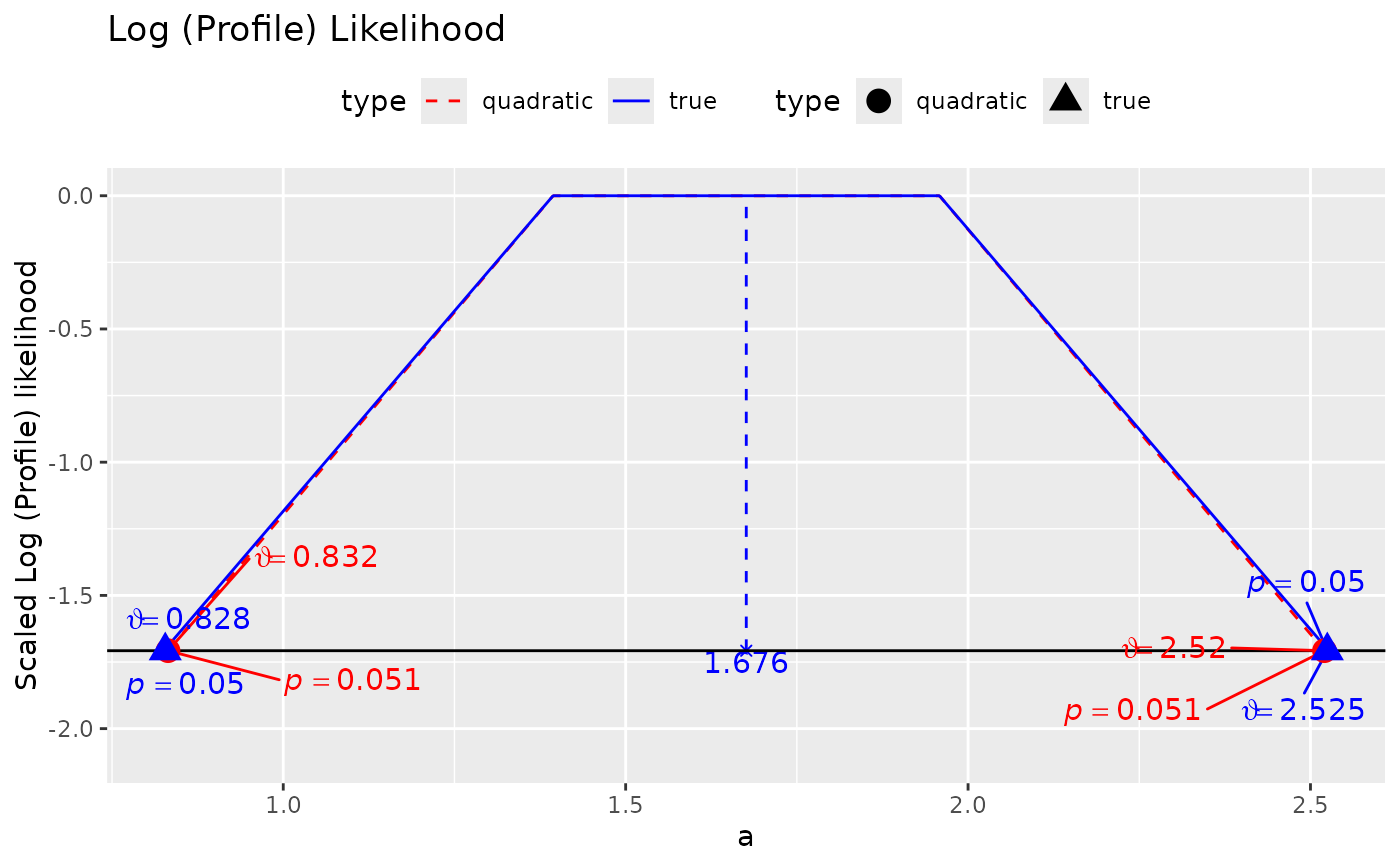
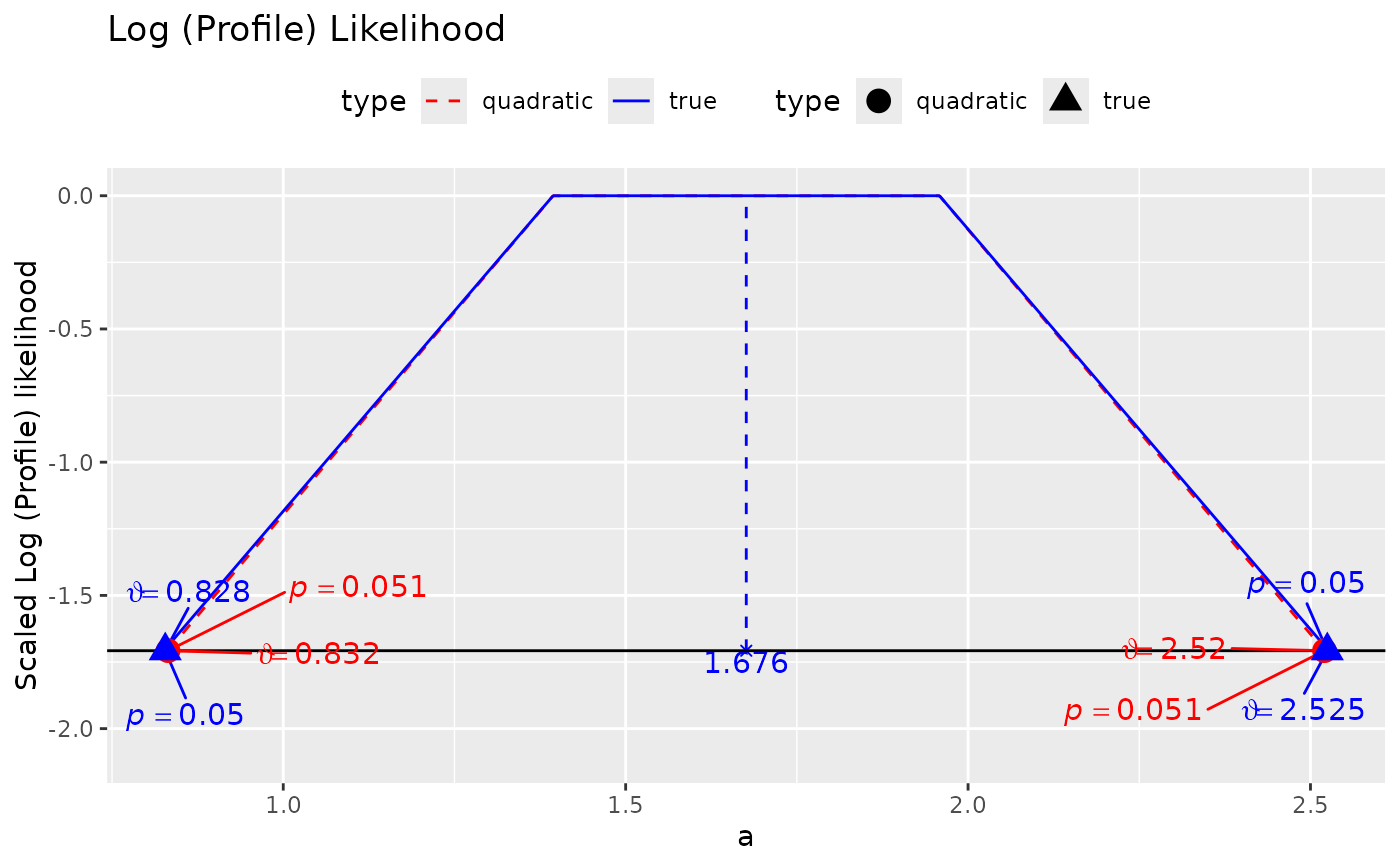
Deploying to gh-pages from @ sfcheung/semlbci@7bef6d9f5c7158b0d054cf3b41ddc15a6c19da22 🚀

diff --git a/news/index.html b/news/index.html
@@ -7,7 +7,7 @@
 
     <a class="navbar-brand me-2" href="../index.html">semlbci</a>
 
-    <small class="nav-text text-muted me-auto" data-bs-toggle="tooltip" data-bs-placement="bottom" title="">0.11.4</small>
+    <small class="nav-text text-muted me-auto" data-bs-toggle="tooltip" data-bs-placement="bottom" title="">0.11.5</small>
 
 
     <button class="navbar-toggler" type="button" data-bs-toggle="collapse" data-bs-target="#navbar" aria-controls="navbar" aria-expanded="false" aria-label="Toggle navigation">
@@ -39,10 +39,12 @@
     </div>
 
     <div class="section level2">
-<h2 class="pkg-version" data-toc-text="0.11.4" id="semlbci-0114">semlbci 0.11.4<a class="anchor" aria-label="anchor" href="#semlbci-0114"></a></h2>
+<h2 class="pkg-version" data-toc-text="0.11.5" id="semlbci-0115">semlbci 0.11.5<a class="anchor" aria-label="anchor" href="#semlbci-0115"></a></h2>
 <div class="section level3">
-<h3 id="miscellaneous-0-11-4">Miscellaneous<a class="anchor" aria-label="anchor" href="#miscellaneous-0-11-4"></a></h3>
-<ul><li>Fixed minor numerical differences in tests in the forthcoming version of <code>lavaan</code>. (0.11.4)</li>
+<h3 id="miscellaneous-0-11-5">Miscellaneous<a class="anchor" aria-label="anchor" href="#miscellaneous-0-11-5"></a></h3>
+<ul><li><p>Fixed minor numerical differences in tests in the forthcoming version of <code>lavaan</code>. (0.11.4)</p></li>
+<li><p>Relaxed the tolerance to allow for cross-platforms minor differences in optimization. (0.11.4.1)</p></li>
+<li><p>Added <code><a href="https://rdrr.io/r/base/on.exit.html" class="external-link">on.exit()</a></code> to functions that may create a cluster of R sessions. (0.11.4.2)</p></li>
 </ul></div>
 </div>
     <div class="section level2">

diff --git a/articles/technical_workflow.html b/articles/technical_workflow.html
@@ -28,7 +28,7 @@
 
     <a class="navbar-brand me-2" href="../index.html">semlbci</a>
 
-    <small class="nav-text text-muted me-auto" data-bs-toggle="tooltip" data-bs-placement="bottom" title="">0.11.4</small>
+    <small class="nav-text text-muted me-auto" data-bs-toggle="tooltip" data-bs-placement="bottom" title="">0.11.5</small>
 
 
     <button class="navbar-toggler" type="button" data-bs-toggle="collapse" data-bs-target="#navbar" aria-controls="navbar" aria-expanded="false" aria-label="Toggle navigation">
@@ -71,7 +71,7 @@
                         <h4 data-toc-skip class="author">Shu Fai
 Cheung</h4>
             
-            <h4 data-toc-skip class="date">2025-12-04</h4>
+            <h4 data-toc-skip class="date">2025-12-05</h4>
       
       <small class="dont-index">Source: <a href="https://github.com/sfcheung/semlbci/blob/master/vignettes/articles/technical_workflow.Rmd" class="external-link"><code>vignettes/articles/technical_workflow.Rmd</code></a></small>
       <div class="d-none name"><code>technical_workflow.Rmd</code></div>

diff --git a/index.html b/index.html
@@ -31,7 +31,7 @@
 
     <a class="navbar-brand me-2" href="index.html">semlbci</a>
 
-    <small class="nav-text text-muted me-auto" data-bs-toggle="tooltip" data-bs-placement="bottom" title="">0.11.4</small>
+    <small class="nav-text text-muted me-auto" data-bs-toggle="tooltip" data-bs-placement="bottom" title="">0.11.5</small>
 
 
     <button class="navbar-toggler" type="button" data-bs-toggle="collapse" data-bs-target="#navbar" aria-controls="navbar" aria-expanded="false" aria-label="Toggle navigation">
@@ -65,7 +65,7 @@
 </nav><div class="container template-home">
 <div class="row">
   <main id="main" class="col-md-9">
-<p>(Version 0.11.4, updated on 2025-12-04 <a href="https://sfcheung.github.io/semlbci/news/index.html">release history</a>)</p>
+<p>(Version 0.11.5, updated on 2025-12-05 <a href="https://sfcheung.github.io/semlbci/news/index.html">release history</a>)</p>
 <div class="section level1">
 <div class="page-header">
 <img src="logo.png" class="logo" alt=""><h1 id="semlbci-">semlbci <a class="anchor" aria-label="anchor" href="#semlbci-"></a>

diff --git a/reference/print.semlbci.html b/reference/print.semlbci.html
@@ -9,7 +9,7 @@ of semlbci()."><meta property="og:image" content="https://sfcheung.github.io/sem
 
     <a class="navbar-brand me-2" href="../index.html">semlbci</a>
 
-    <small class="nav-text text-muted me-auto" data-bs-toggle="tooltip" data-bs-placement="bottom" title="">0.11.4</small>
+    <small class="nav-text text-muted me-auto" data-bs-toggle="tooltip" data-bs-placement="bottom" title="">0.11.5</small>
 
 
     <button class="navbar-toggler" type="button" data-bs-toggle="collapse" data-bs-target="#navbar" aria-controls="navbar" aria-expanded="false" aria-label="Toggle navigation">
@@ -336,7 +336,7 @@ if <code>output</code> is <code>"text"</code> or
 <span class="r-out co"><span class="r-pr">#&gt;</span> </span>
 <span class="r-out co"><span class="r-pr">#&gt;</span> Results:</span>
 <span class="r-out co"><span class="r-pr">#&gt;</span>   id lhs op rhs label   est lbci_lb lbci_ub    lb    ub sec_l sec_u cl_lb cl_ub</span>
-<span class="r-out co"><span class="r-pr">#&gt;</span> 6  6  ab := a*b    ab 0.897   0.427   1.464 0.385 1.409 0.186 0.163 0.950 0.950</span>
+<span class="r-out co"><span class="r-pr">#&gt;</span> 6  6  ab := a*b    ab 0.897   0.427   1.464 0.385 1.409 0.185 0.162 0.950 0.950</span>
 <span class="r-out co"><span class="r-pr">#&gt;</span> </span>
 <span class="r-out co"><span class="r-pr">#&gt;</span> Annotation:</span>
 <span class="r-out co"><span class="r-pr">#&gt;</span> * lbci_lb, lbci_ub: The lower and upper likelihood-based bounds.</span>

diff --git a/404.html b/404.html
@@ -29,7 +29,7 @@
 
     <a class="navbar-brand me-2" href="https://sfcheung.github.io/semlbci/index.html">semlbci</a>
 
-    <small class="nav-text text-muted me-auto" data-bs-toggle="tooltip" data-bs-placement="bottom" title="">0.11.4</small>
+    <small class="nav-text text-muted me-auto" data-bs-toggle="tooltip" data-bs-placement="bottom" title="">0.11.5</small>
 
 
     <button class="navbar-toggler" type="button" data-bs-toggle="collapse" data-bs-target="#navbar" aria-controls="navbar" aria-expanded="false" aria-label="Toggle navigation">

diff --git a/articles/index.html b/articles/index.html
@@ -7,7 +7,7 @@
 
     <a class="navbar-brand me-2" href="../index.html">semlbci</a>
 
-    <small class="nav-text text-muted me-auto" data-bs-toggle="tooltip" data-bs-placement="bottom" title="">0.11.4</small>
+    <small class="nav-text text-muted me-auto" data-bs-toggle="tooltip" data-bs-placement="bottom" title="">0.11.5</small>
 
 
     <button class="navbar-toggler" type="button" data-bs-toggle="collapse" data-bs-target="#navbar" aria-controls="navbar" aria-expanded="false" aria-label="Toggle navigation">

diff --git a/articles/loglike.html b/articles/loglike.html
@@ -28,7 +28,7 @@
 
     <a class="navbar-brand me-2" href="../index.html">semlbci</a>
 
-    <small class="nav-text text-muted me-auto" data-bs-toggle="tooltip" data-bs-placement="bottom" title="">0.11.4</small>
+    <small class="nav-text text-muted me-auto" data-bs-toggle="tooltip" data-bs-placement="bottom" title="">0.11.5</small>
 
 
     <button class="navbar-toggler" type="button" data-bs-toggle="collapse" data-bs-target="#navbar" aria-controls="navbar" aria-expanded="false" aria-label="Toggle navigation">

diff --git a/articles/semlbci.html b/articles/semlbci.html
@@ -28,7 +28,7 @@
 
     <a class="navbar-brand me-2" href="../index.html">semlbci</a>
 
-    <small class="nav-text text-muted me-auto" data-bs-toggle="tooltip" data-bs-placement="bottom" title="">0.11.4</small>
+    <small class="nav-text text-muted me-auto" data-bs-toggle="tooltip" data-bs-placement="bottom" title="">0.11.5</small>
 
 
     <button class="navbar-toggler" type="button" data-bs-toggle="collapse" data-bs-target="#navbar" aria-controls="navbar" aria-expanded="false" aria-label="Toggle navigation">

diff --git a/articles/technical_searching_one_bound.html b/articles/technical_searching_one_bound.html
@@ -28,7 +28,7 @@
 
     <a class="navbar-brand me-2" href="../index.html">semlbci</a>
 
-    <small class="nav-text text-muted me-auto" data-bs-toggle="tooltip" data-bs-placement="bottom" title="">0.11.4</small>
+    <small class="nav-text text-muted me-auto" data-bs-toggle="tooltip" data-bs-placement="bottom" title="">0.11.5</small>
 
 
     <button class="navbar-toggler" type="button" data-bs-toggle="collapse" data-bs-target="#navbar" aria-controls="navbar" aria-expanded="false" aria-label="Toggle navigation">

diff --git a/authors.html b/authors.html
@@ -7,7 +7,7 @@
 
     <a class="navbar-brand me-2" href="index.html">semlbci</a>
 
-    <small class="nav-text text-muted me-auto" data-bs-toggle="tooltip" data-bs-placement="bottom" title="">0.11.4</small>
+    <small class="nav-text text-muted me-auto" data-bs-toggle="tooltip" data-bs-placement="bottom" title="">0.11.5</small>
 
 
     <button class="navbar-toggler" type="button" data-bs-toggle="collapse" data-bs-target="#navbar" aria-controls="navbar" aria-expanded="false" aria-label="Toggle navigation">

diff --git a/reference/cfa_evar_near_zero.html b/reference/cfa_evar_near_zero.html
@@ -9,7 +9,7 @@ standardized error variance close to zero."><meta property="og:image" content="h
 
     <a class="navbar-brand me-2" href="../index.html">semlbci</a>
 
-    <small class="nav-text text-muted me-auto" data-bs-toggle="tooltip" data-bs-placement="bottom" title="">0.11.4</small>
+    <small class="nav-text text-muted me-auto" data-bs-toggle="tooltip" data-bs-placement="bottom" title="">0.11.5</small>
 
 
     <button class="navbar-toggler" type="button" data-bs-toggle="collapse" data-bs-target="#navbar" aria-controls="navbar" aria-expanded="false" aria-label="Toggle navigation">

diff --git a/reference/cfa_two_factors.html b/reference/cfa_two_factors.html
@@ -7,7 +7,7 @@
 
     <a class="navbar-brand me-2" href="../index.html">semlbci</a>
 
-    <small class="nav-text text-muted me-auto" data-bs-toggle="tooltip" data-bs-placement="bottom" title="">0.11.4</small>
+    <small class="nav-text text-muted me-auto" data-bs-toggle="tooltip" data-bs-placement="bottom" title="">0.11.5</small>
 
 
     <button class="navbar-toggler" type="button" data-bs-toggle="collapse" data-bs-target="#navbar" aria-controls="navbar" aria-expanded="false" aria-label="Toggle navigation">